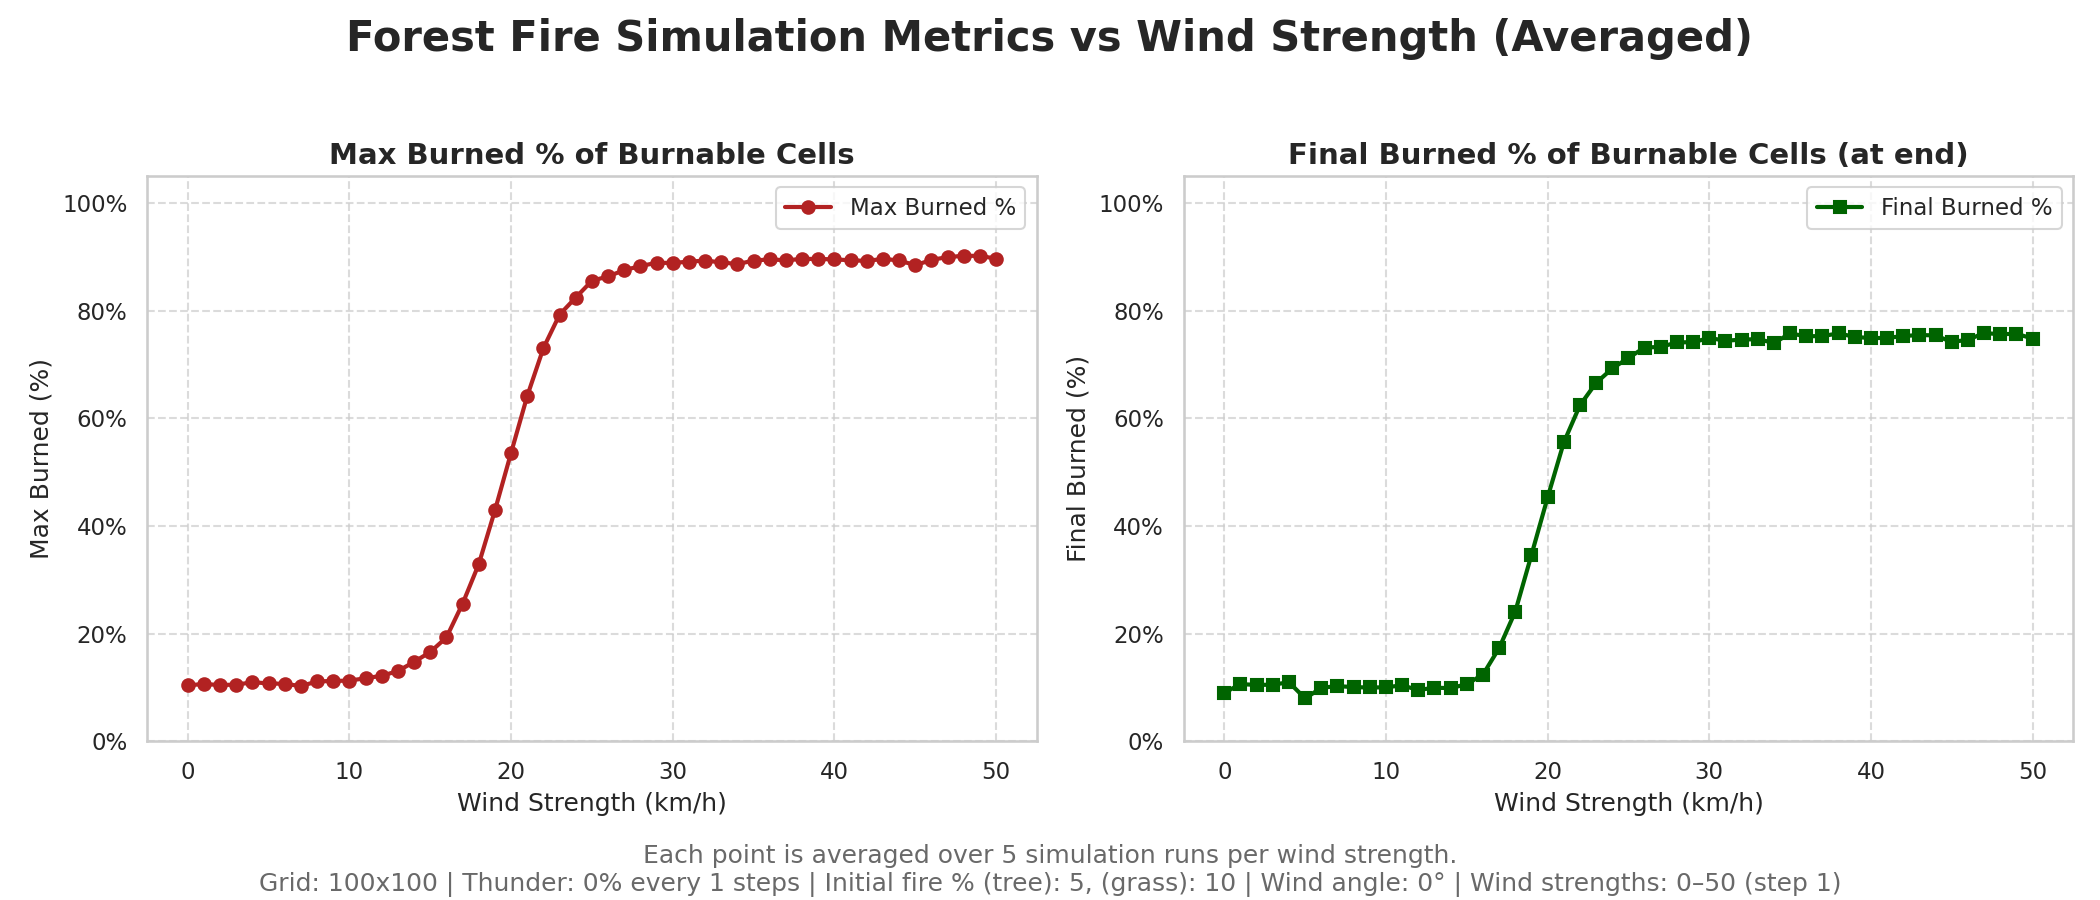
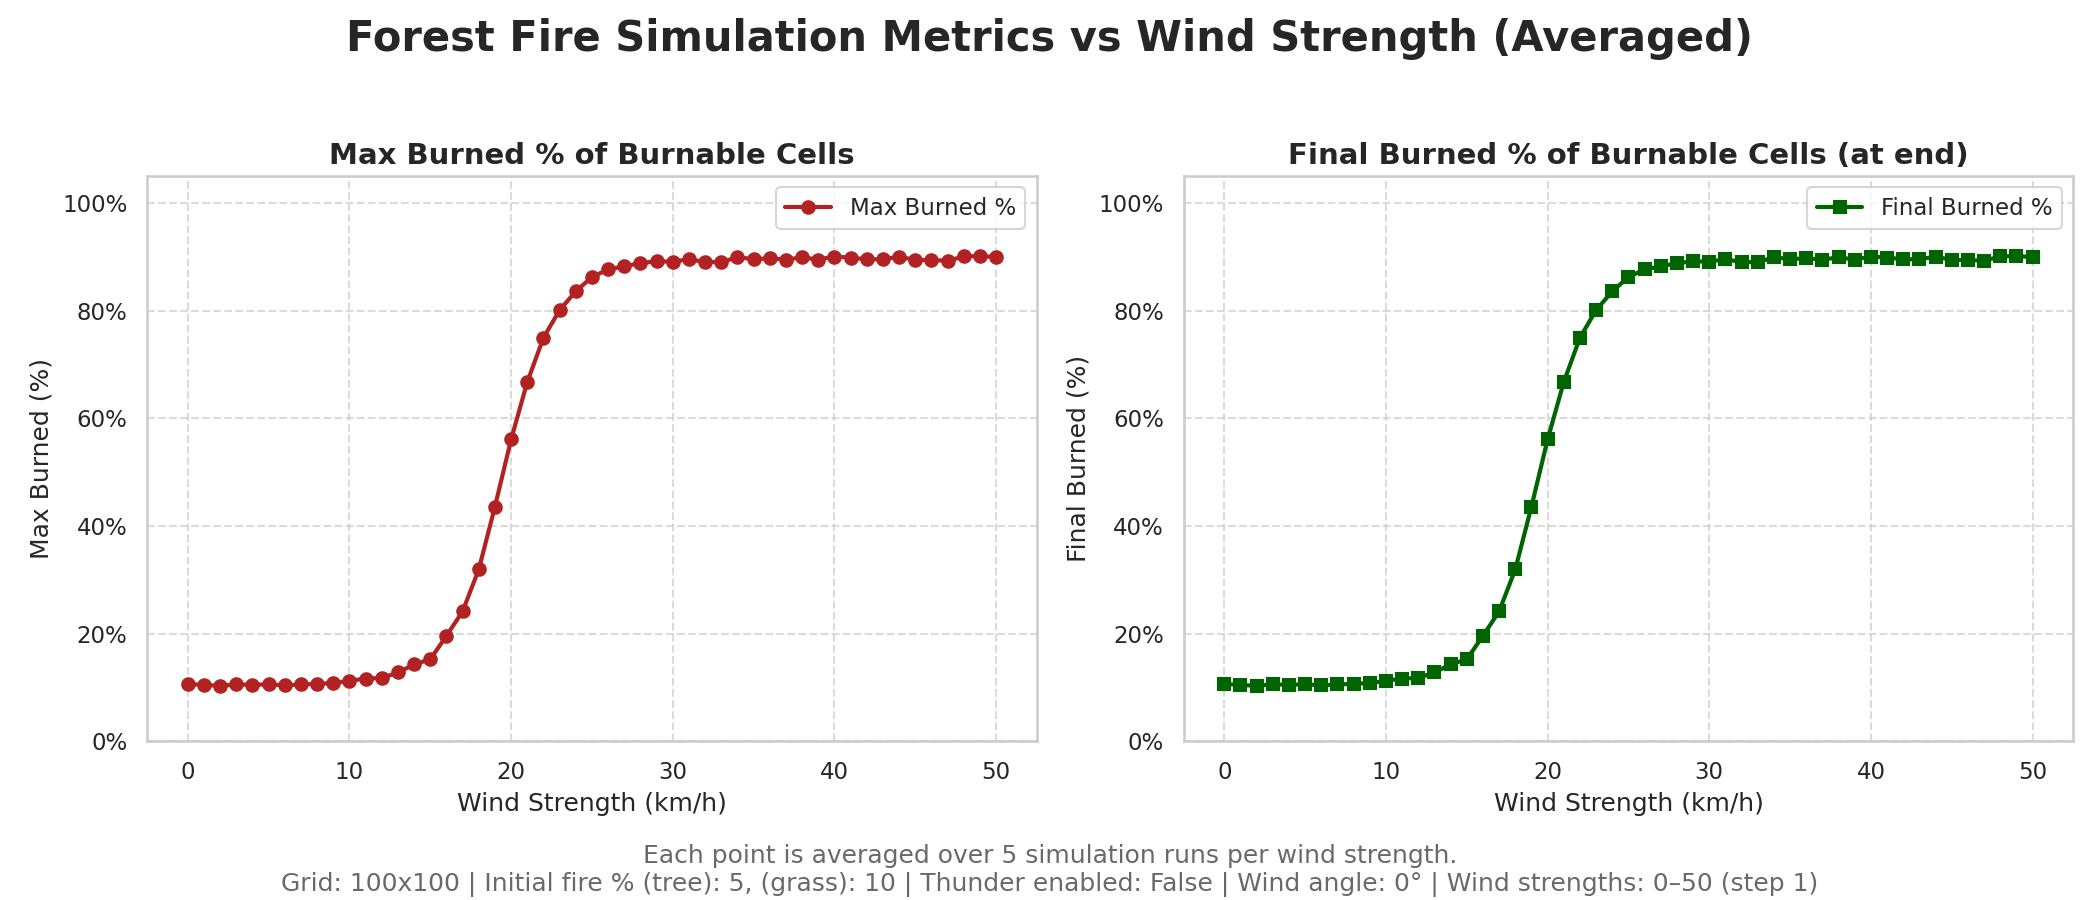
Added the enable thunder button and cli argument

diff --git a/src/main.rs b/src/main.rs
@@ -87,10 +87,11 @@ struct FrameTimer(Timer);
 struct SimulationParams {
     width: u32,
     height: u32,
-    thunder_percentage: u32,
-    steps_between_thunder: u32,
     burning_trees: u32,
     burning_grasses: u32,
+    is_thunder_toggled: bool,
+    thunder_percentage: u32,
+    steps_between_thunder: u32,
     is_wind_toggled: bool,
     wind_angle: u32,
     wind_strength: u32,
@@ -100,6 +101,8 @@ struct SimulationParams {
 pub struct SimControl {
     #[serde(rename = "thunderPercentage")]
     pub thunder_percentage: Option<u32>,
+    #[serde(rename = "thunderEnabled")]
+    pub thunder_enabled: Option<bool>,
     #[serde(rename = "stepsBetweenThunder")]
     pub steps_between_thunder: Option<u32>,
     #[serde(rename = "windAngle")]
@@ -208,6 +211,9 @@ fn read_sim_control() -> SimControl {
 }
 fn update_sim_control(update: SimControl) {
     let mut control = read_sim_control();
+    if let Some(val) = update.thunder_enabled {
+        control.thunder_enabled = Some(val);
+    }
     if let Some(val) = update.thunder_percentage {
         control.thunder_percentage = Some(val);
     }
@@ -453,10 +459,11 @@ fn start_simulation_button_system(
     let cmdline = vec![
         params.width.to_string(),
         params.height.to_string(),
-        params.thunder_percentage.to_string(),
-        params.steps_between_thunder.to_string(),
         params.burning_trees.to_string(),
         params.burning_grasses.to_string(),
+        (params.is_thunder_toggled as i32).to_string(),
+        params.thunder_percentage.to_string(),
+        params.steps_between_thunder.to_string(),
         (params.is_wind_toggled as i32).to_string(),
         params.wind_angle.to_string(),
         params.wind_strength.to_string(),
@@ -513,6 +520,7 @@ fn start_simulation_button_system(
 
     update_sim_control(SimControl {
         paused: Some(false),
+        thunder_enabled: Some(params.is_thunder_toggled),
         thunder_percentage: Some(params.thunder_percentage),
         steps_between_thunder: Some(params.steps_between_thunder),
         wind_enabled: Some(params.is_wind_toggled),
@@ -882,14 +890,20 @@ fn ui_system(
             ui.add(
                 egui::Slider::new(&mut params.burning_grasses, 0..=100).text("Burning grasses %"),
             );
-            ui.add(
-                egui::Slider::new(&mut params.thunder_percentage, 0..=100)
-                    .text("Thunder per step (%)"),
-            );
-            ui.add(
-                egui::Slider::new(&mut params.steps_between_thunder, 1..=100)
-                    .text("Steps between thunder"),
-            );
+            ui.add(egui::Checkbox::new(
+                &mut params.is_thunder_toggled,
+                "Enable thunder",
+            ));
+            if params.is_thunder_toggled {
+                ui.add(
+                    egui::Slider::new(&mut params.thunder_percentage, 0..=100)
+                        .text("Thunder per step (%)"),
+                );
+                ui.add(
+                    egui::Slider::new(&mut params.steps_between_thunder, 1..=100)
+                        .text("Steps between thunder"),
+                );
+            }
 
             ui.add(egui::Checkbox::new(
                 &mut params.is_wind_toggled,
@@ -907,6 +921,7 @@ fn ui_system(
                 }
                 if sim_ref.is_some() && ui.button("Update Thunder").clicked() {
                     update_sim_control(SimControl {
+                        thunder_enabled: Some(params.is_thunder_toggled),
                         thunder_percentage: Some(params.thunder_percentage),
                         steps_between_thunder: Some(params.steps_between_thunder),
                         ..Default::default()
@@ -926,6 +941,7 @@ fn ui_system(
             if let Some(sim) = sim_ref {
                 ui.separator();
                 ui.label("Playback Controls");
+                ui.add(egui::Slider::new(&mut playback.speed, 0.05..=2.0).text("Speed s/frame"));
                 ui.horizontal(|ui| {
                     if ui.small_button("|⏮").clicked() {
                         playback.jump_to_frame = Some(0);
@@ -957,7 +973,6 @@ fn ui_system(
                         playback.jump_to_frame = Some(sim.frames.len().saturating_sub(1));
                     }
                 });
-                ui.add(egui::Slider::new(&mut playback.speed, 0.05..=2.0).text("Speed s/frame"));
                 ui.label(format!("Frame: {}/{}", sim.current + 1, sim.frames.len()));
                 let mut display_frame = sim.current + 1;
                 if ui
@@ -1312,7 +1327,8 @@ fn main() {
         .insert_resource(SimulationParams {
             width: 20,
             height: 20,
-            thunder_percentage: 0,
+            is_thunder_toggled: false,
+            thunder_percentage: 1,
             steps_between_thunder: 1,
             burning_trees: 5,
             burning_grasses: 10,

diff --git a/data-visualization/main.py b/data-visualization/main.py
@@ -19,10 +19,11 @@ WIND_STRENGTH_STEP = 1
 GRID_WIDTH = 100
 GRID_HEIGHT = 100
 
-THUNDER_PCT = 0
-STEPS_BETWEEN_THUNDER = 1
 FIRE_TREE = 5
 FIRE_GRASS = 10
+THUNDER_ENABLED = False
+THUNDER_PCT = 0
+STEPS_BETWEEN_THUNDER = 1
 WIND_ENABLED = 1
 WIND_ANGLE = 0
 
@@ -96,10 +97,11 @@ for wind_strength in range(0, MAX_WIND_STRENGTH + 1, WIND_STRENGTH_STEP):
             SIM_SCRIPT,
             str(GRID_WIDTH),
             str(GRID_HEIGHT),
-            str(THUNDER_PCT),
-            str(STEPS_BETWEEN_THUNDER),
             str(FIRE_TREE),
             str(FIRE_GRASS),
+            str(THUNDER_ENABLED),
+            str(THUNDER_PCT),
+            str(STEPS_BETWEEN_THUNDER),
             str(WIND_ENABLED),
             str(WIND_ANGLE),
             str(wind_strength),
@@ -239,8 +241,8 @@ fig.text(
     (
         f"Each point is averaged over {REPEATS} simulation runs per wind strength.\n"
         f"Grid: {GRID_WIDTH}x{GRID_HEIGHT} | "
-        f"Thunder: {THUNDER_PCT}% every {STEPS_BETWEEN_THUNDER} steps | "
         f"Initial fire % (tree): {FIRE_TREE}, (grass): {FIRE_GRASS} | "
+        f"Thunder enabled: {THUNDER_ENABLED} | "
         f"Wind angle: {WIND_ANGLE}° | "
         f"Wind strengths: 0–{MAX_WIND_STRENGTH} (step {WIND_STRENGTH_STEP})"
     ),
